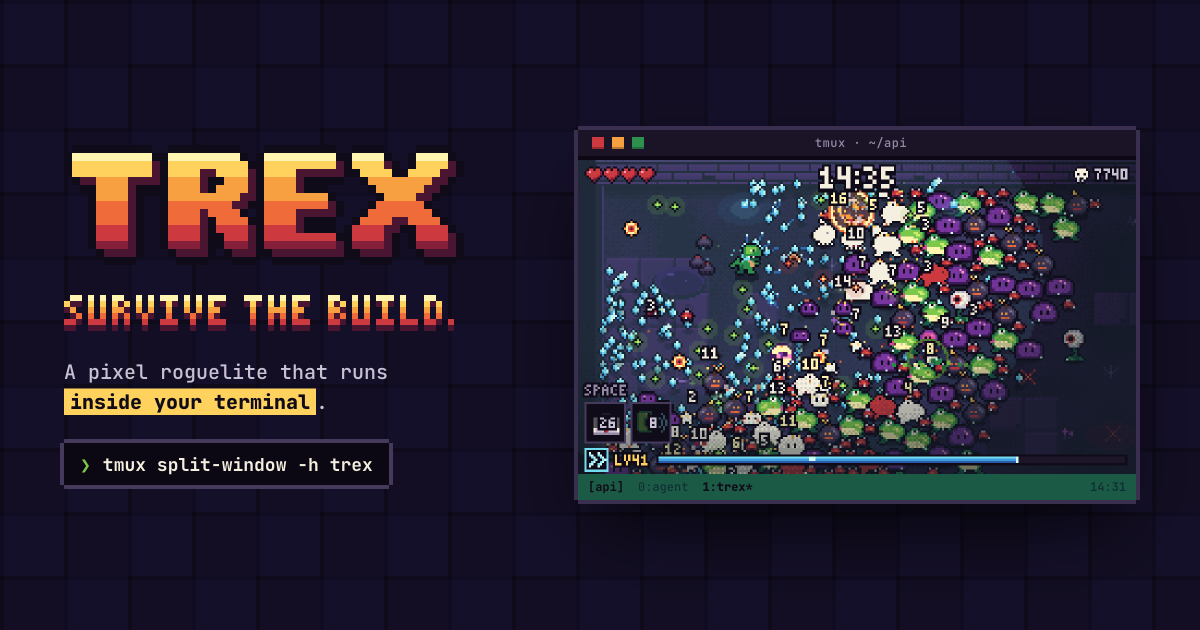
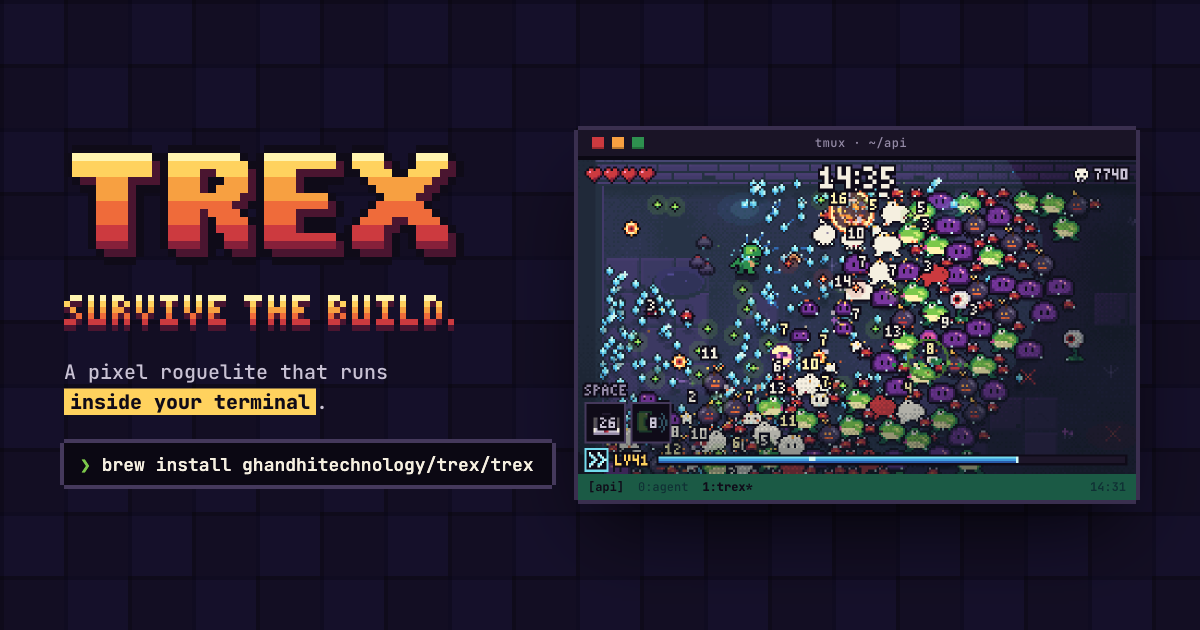
Show the Homebrew install line in the link preview image.

Changed region(s): [[0.0617, 0.6937, 0.4625, 0.7841]]

diff --git a/site/index.html b/site/index.html
@@ -14,14 +14,14 @@
   <meta property="og:title" content="trex · survive the build">
   <meta property="og:description" content="A pixel roguelite that runs inside your terminal. Split a tmux pane, type trex, play while your agent works.">
   <meta property="og:url" content="https://ghandhitechnology.github.io/trex/">
-  <meta property="og:image" content="https://ghandhitechnology.github.io/trex/assets/og.png">
+  <meta property="og:image" content="https://ghandhitechnology.github.io/trex/assets/og.png?v=2">
   <meta property="og:image:width" content="1200">
   <meta property="og:image:height" content="630">
   <meta property="og:image:alt" content="The TREX logo over a swarm of pixel monsters in a tmux pane">
   <meta name="twitter:card" content="summary_large_image">
   <meta name="twitter:title" content="trex · survive the build">
   <meta name="twitter:description" content="A pixel roguelite that runs inside your terminal.">
-  <meta name="twitter:image" content="https://ghandhitechnology.github.io/trex/assets/og.png">
+  <meta name="twitter:image" content="https://ghandhitechnology.github.io/trex/assets/og.png?v=2">
 
   <link rel="icon" type="image/png" sizes="32x32" href="assets/favicon-32.png">
   <link rel="icon" type="image/png" sizes="16x16" href="assets/favicon-16.png">
